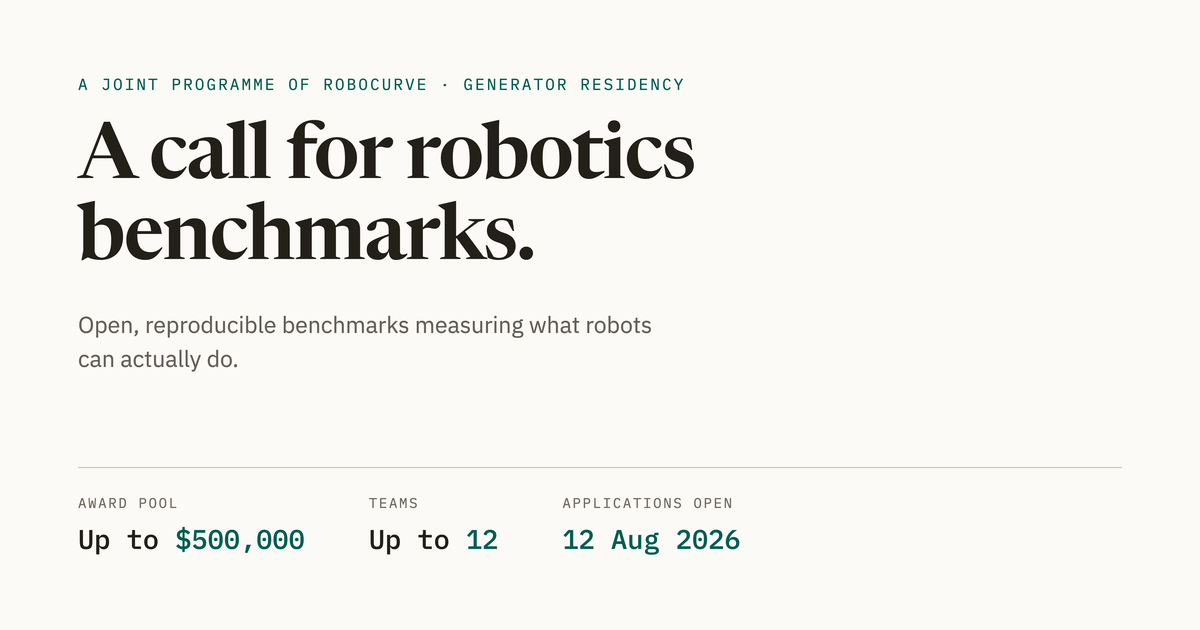
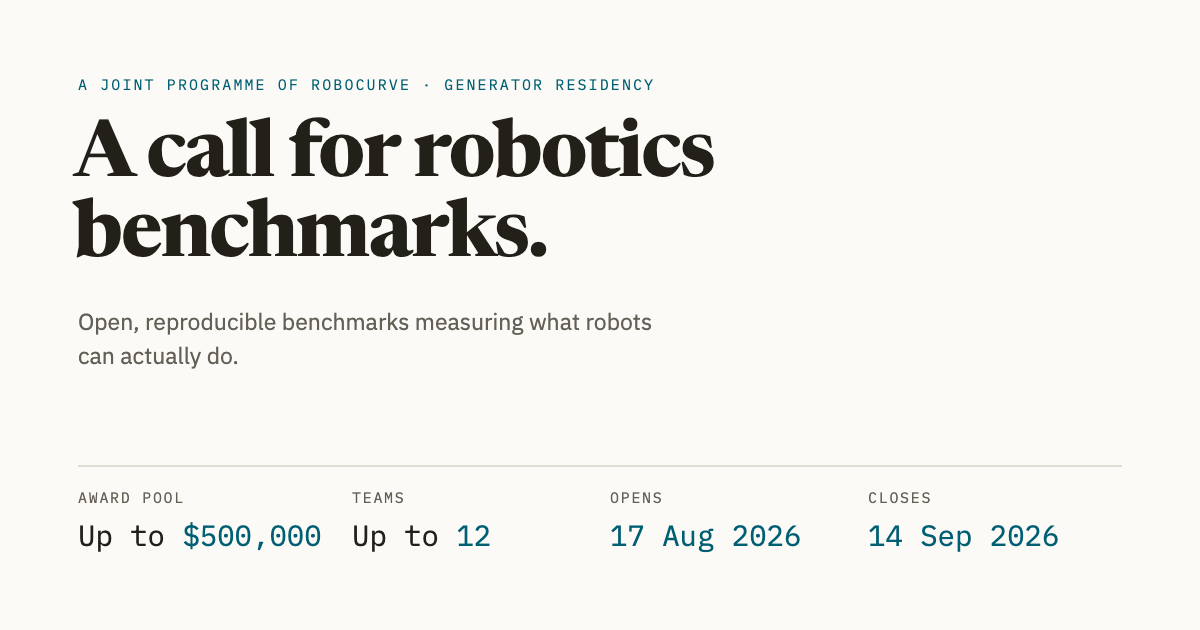
Update dates, clarify award additivity, fix grant metadata
- Stage 1 opens 17 August; Stage 2 runs 25 Sep to 18 Dec
- Cross-embodiment bonuses are paid on top of the core award, with a
  worked example; relabel $30,000 as the core award, not a ceiling
- Awards are paid to the team lead, matching the application form
- JSON-LD maxValue 500000 -> 30000; it had described the whole pool
  rather than what one team can receive
- Task callout now names the explicit-distribution requirement
- Rebuild og.png with the new opening date

diff --git a/index.html b/index.html
@@ -4,10 +4,10 @@
 <meta charset="utf-8">
 <meta name="viewport" content="width=device-width, initial-scale=1">
 <title>Robotics Evaluation Bounty · a call for robotics benchmarks</title>
-<meta name="description" content="An open bounty funding reproducible, open-source robotics benchmarks. Up to $500,000 in awards, up to $30,000 per team. Applications open 12 August 2026.">
+<meta name="description" content="An open bounty funding reproducible, open-source robotics benchmarks. Up to $500,000 in awards, up to $30,000 per team before hardware bonuses. Applications open 17 August 2026.">
 <meta name="color-scheme" content="light dark">
 <meta property="og:title" content="Robotics Evaluation Bounty">
-<meta property="og:description" content="There is no shared, replicated benchmark of what robots can actually do, or how fast that’s changing. We fund teams to build one. Stage 2 awards up to $30,000, two free SO-101 arms, and co-authorship on the joint paper.">
+<meta property="og:description" content="There is no shared, replicated benchmark of what robots can actually do, or how fast that’s changing. We fund teams to build one. Stage 2 awards up to $30,000 before hardware bonuses, two free SO-101 arms, and co-authorship on the joint paper.">
 <meta property="og:type" content="website">
 <meta property="og:image" content="https://robotics-evals-website.github.io/Website/og.png">
 <meta property="og:image:width" content="1200">
@@ -19,7 +19,7 @@
 <meta name="twitter:card" content="summary_large_image">
 <meta name="twitter:image" content="https://robotics-evals-website.github.io/Website/og.png">
 <meta name="twitter:title" content="Robotics Evaluation Bounty">
-<meta name="twitter:description" content="An open bounty funding reproducible, open-source robotics benchmarks. Stage 2 awards up to $30,000, two free SO-101 arms, and co-authorship on the joint paper.">
+<meta name="twitter:description" content="An open bounty funding reproducible, open-source robotics benchmarks. Stage 2 awards up to $30,000 before hardware bonuses, two free SO-101 arms, and co-authorship on the joint paper.">
 <meta name="twitter:image:alt" content="A call for robotics benchmarks. Up to $500,000, up to 12 teams, applications August 2026.">
 <link rel="canonical" href="https://robotics-evals-website.github.io/Website/">
 <meta name="theme-color" content="#FCFAF6" media="(prefers-color-scheme: light)">
@@ -37,11 +37,11 @@
   "@type": "MonetaryGrant",
   "name": "Robotics Evaluation Bounty",
   "url": "https://robotics-evals-website.github.io/Website/",
-  "description": "An open bounty funding reproducible, open-source benchmarks of general robotic capability, built on Inspect Robots. Applications open 12 August 2026; Stage 1 closes 14 September 2026; first results February 2027.",
+  "description": "An open bounty funding reproducible, open-source benchmarks of general robotic capability, built on Inspect Robots. Applications open 17 August 2026; Stage 1 closes 14 September 2026; first results February 2027.",
   "amount": {
     "@type": "MonetaryAmount",
     "currency": "USD",
-    "maxValue": 500000
+    "maxValue": 30000
   },
   "sponsor": [
     { "@type": "Organization", "name": "RoboCurve", "url": "https://robocurve.org/" },
@@ -1031,7 +1031,7 @@ footer.site{border-top:1px solid var(--line);background:var(--surface);padding-b
         <a class="btn btn-primary btn-lg" href="#apply">Apply to build a benchmark</a>
         <a class="btn btn-ghost btn-lg" href="#benchmarks">See what to build</a>
       </div>
-      <p class="cta-note">Applications open 12 August 2026 · no robot needed</p>
+      <p class="cta-note">Applications open 17 August 2026 · no robot needed</p>
         </div>
     </div>
   </section>
@@ -1040,7 +1040,7 @@ footer.site{border-top:1px solid var(--line);background:var(--surface);padding-b
   <div class="statusbar">
     <div class="wrap">
       <div class="status-cell"><span>Award pool</span><b>Up to <em>$500,000</em></b></div>
-      <div class="status-cell"><span>Each team</span><b>Up to <em>$30,000</em></b></div>
+      <div class="status-cell"><span>Core award</span><b>Up to <em>$30,000</em></b></div>
       <div class="status-cell"><span>Framework</span><b><em>Inspect Robots</em></b></div>
       <div class="status-cell"><span>Stage 1 closes</span><b><em>14 Sep 2026</em></b></div>
     </div>
@@ -1060,7 +1060,7 @@ footer.site{border-top:1px solid var(--line);background:var(--surface);padding-b
         <button class="sdt__card edA__line" type="button" id="sdt-tab-1" aria-controls="stage-1" aria-expanded="false">
           <span class="edA__fol" aria-hidden="true">1</span>
           <span class="edA__nm">Benchmark proposal</span>
-          <span class="edA__date">12 Aug &ndash; 14 Sep 2026 &middot; open to all</span>
+          <span class="edA__date">17 Aug &ndash; 14 Sep 2026 &middot; open to all</span>
           <span class="edA__note"><b>$500</b> if shortlisted, not selected</span>
           <span class="edA__go" aria-hidden="true">Brief</span>
         </button>
@@ -1072,7 +1072,7 @@ footer.site{border-top:1px solid var(--line);background:var(--surface);padding-b
           </span>
           <span class="edA__sum">
             <span class="edA__fig">$20,000 &ndash; $30,000</span>
-            <span class="edA__figlab">Award per team</span>
+            <span class="edA__figlab">Core award per team</span>
           </span>
           <span class="edA__foot">
             <span class="edA__when">25 Sep &ndash; 18 Dec 2026</span>
@@ -1088,7 +1088,7 @@ footer.site{border-top:1px solid var(--line);background:var(--surface);padding-b
           <h3 class="sd__title" id="sd-title-1">Benchmark proposal</h3>
           <p class="sd__lead">Tell us what capability you want to measure, in natural language.</p>
           <ul class="sd__facts">
-            <li><span>Window</span><b>12 Aug &ndash; 14 Sep 2026</b></li>
+            <li><span>Window</span><b>17 Aug &ndash; 14 Sep 2026</b></li>
             <li><span>Closes</span><b>14 Sep, 23:59 Pacific</b></li>
             <li><span>Open to</span><b>anyone, no robot</b></li>
             <li><span>Shortlisted, not selected</span><b>$500</b></li>
@@ -1196,7 +1196,7 @@ footer.site{border-top:1px solid var(--line);background:var(--surface);padding-b
           <div class="method-foot">
             <div class="cta-row cta-row-tight"><a class="btn btn-primary btn-lg" href="#apply">Apply</a></div>
             <div>
-              <p class="callout">Every Stage 1 proposal must include a list of tasks, each with all four features.</p>
+              <p class="callout">Every Stage 1 proposal must include a list of tasks, each with all four features, and every quantity that varies given as an explicit distribution with units.</p>
               <p class="worked">A benchmark of this shape, on Inspect Robots: <a href="https://github.com/robocurve/kitchenbench" target="_blank" rel="noopener noreferrer">KitchenBench</a>.</p>
             </div>
           </div>
@@ -1291,7 +1291,7 @@ footer.site{border-top:1px solid var(--line);background:var(--surface);padding-b
 
               <h5 class="s3-sub">Cross-embodiment bonuses</h5>
               <p class="s3-p">The SO-101 arms go to every team, so they are the floor rather than something to earn. A
-                team that <b>already owns</b> other hardware is paid per unit to run the same benchmark across it.
+                team that <b>already owns</b> other hardware is paid per unit to run the same benchmark across it, on top of the delivery and replication awards.
                 Nothing here expects a team to acquire anything.</p>
               <ul class="s3-rate">
                 <li><b>$2,000</b><span>each additional arm</span></li>
@@ -1472,6 +1472,7 @@ footer.site{border-top:1px solid var(--line);background:var(--surface);padding-b
             <li><span>Materials budget</span><b>up to $1,000</b></li>
             <li><span>Joint paper</span><b>co-authorship if replication passes</b></li>
           </ul>
+          <p class="sd__note">Every line is additive. A team that delivers, passes replication, and runs the benchmark on a humanoid it already owns receives $35,000.</p>
           <div class="cta-row cta-row-tight"><a class="btn btn-primary btn-lg" href="#apply">Apply</a></div>
         </div>
       </section>
@@ -1605,7 +1606,7 @@ footer.site{border-top:1px solid var(--line);background:var(--surface);padding-b
           <li><b>Stage 2</b> The hardware benchmark running end to end with a baseline evaluated, plus a reproducibility package covering environment specs with tolerances, the evaluation protocol, the reset procedure, and rollout counts. Due 18 December 2026, 23:59 Pacific, rolling from 1 December. We then spot-check a random sample of instances for reproducibility before the replication bonus is released.</li>
         </ul></details>
         <details><summary>Is this a job, a contract, or a grant?</summary><p>None of those. These are competition awards rather than payment for services. There is no employment or contracting relationship, no supervision, no hours reporting, and no work assigned by us. You choose your own task, method, and schedule, and are judged against criteria published on day one. Awards are flat amounts tied to deliverables, not to time spent. If you hold a student visa, confirm with your international student office before entering.</p></details>
-        <details><summary>How are awards paid and taxed?</summary><p>To the team, by international transfer, split as the team directs. University-affiliated teams may instead request payment as a research gift to their institution; ask at Stage&nbsp;2 selection, since institutional contracting takes weeks. Awards may be reported to tax authorities, and awards paid to teams outside the United States may be subject to US withholding, which may be recoverable by filing a US return the following year. We collect tax forms at Stage&nbsp;2 selection.</p></details>
+        <details><summary>How are awards paid and taxed?</summary><p>To the team lead, by international transfer, split as the lead directs. University-affiliated teams may instead request payment as a research gift to their institution; ask at Stage&nbsp;2 selection, since institutional contracting takes weeks. Awards may be reported to tax authorities, and awards paid to teams outside the United States may be subject to US withholding, which may be recoverable by filing a US return the following year. We collect tax forms at Stage&nbsp;2 selection.</p></details>
         <details><summary>Which robot do I build on?</summary><p>The SO-101 is the default reference embodiment. Every Stage&nbsp;2 team is sent two fully assembled follower arms, ordered on selection day, free and with no return obligation, including if you withdraw. They sit outside the $1,000 materials budget, which covers task materials and 3D-printable fixtures. You drive them through <span class="mono">inspect-robots-so101</span>, which wraps policy checkpoints from LeRobot, Hugging Face’s robot-learning library, as an Inspect Robots policy; a public checkpoint is enough for a baseline, so no teleoperation, demo collection, or leader arms are needed. You may instead propose an alternative embodiment you already own, approved at Stage&nbsp;2, and still receive the arms:</p>
         <ul class="faq-list">
           <li><b>Arms</b> YAM, WidowX AI, Franka Research 3</li>
@@ -1627,7 +1628,7 @@ footer.site{border-top:1px solid var(--line);background:var(--surface);padding-b
         <a class="btn btn-primary btn-lg" href="mailto:hello@example.org?subject=Robotics%20Evaluation%20Bounty%20Stage%201%20proposal">Start your application</a>
         <a class="btn btn-ghost btn-lg" href="#faq">Read the FAQ</a>
       </div>
-      <p class="cta-note">Applications open 12 August 2026</p>
+      <p class="cta-note">Applications open 17 August 2026</p>
     </div>
   </section>
 </main>
